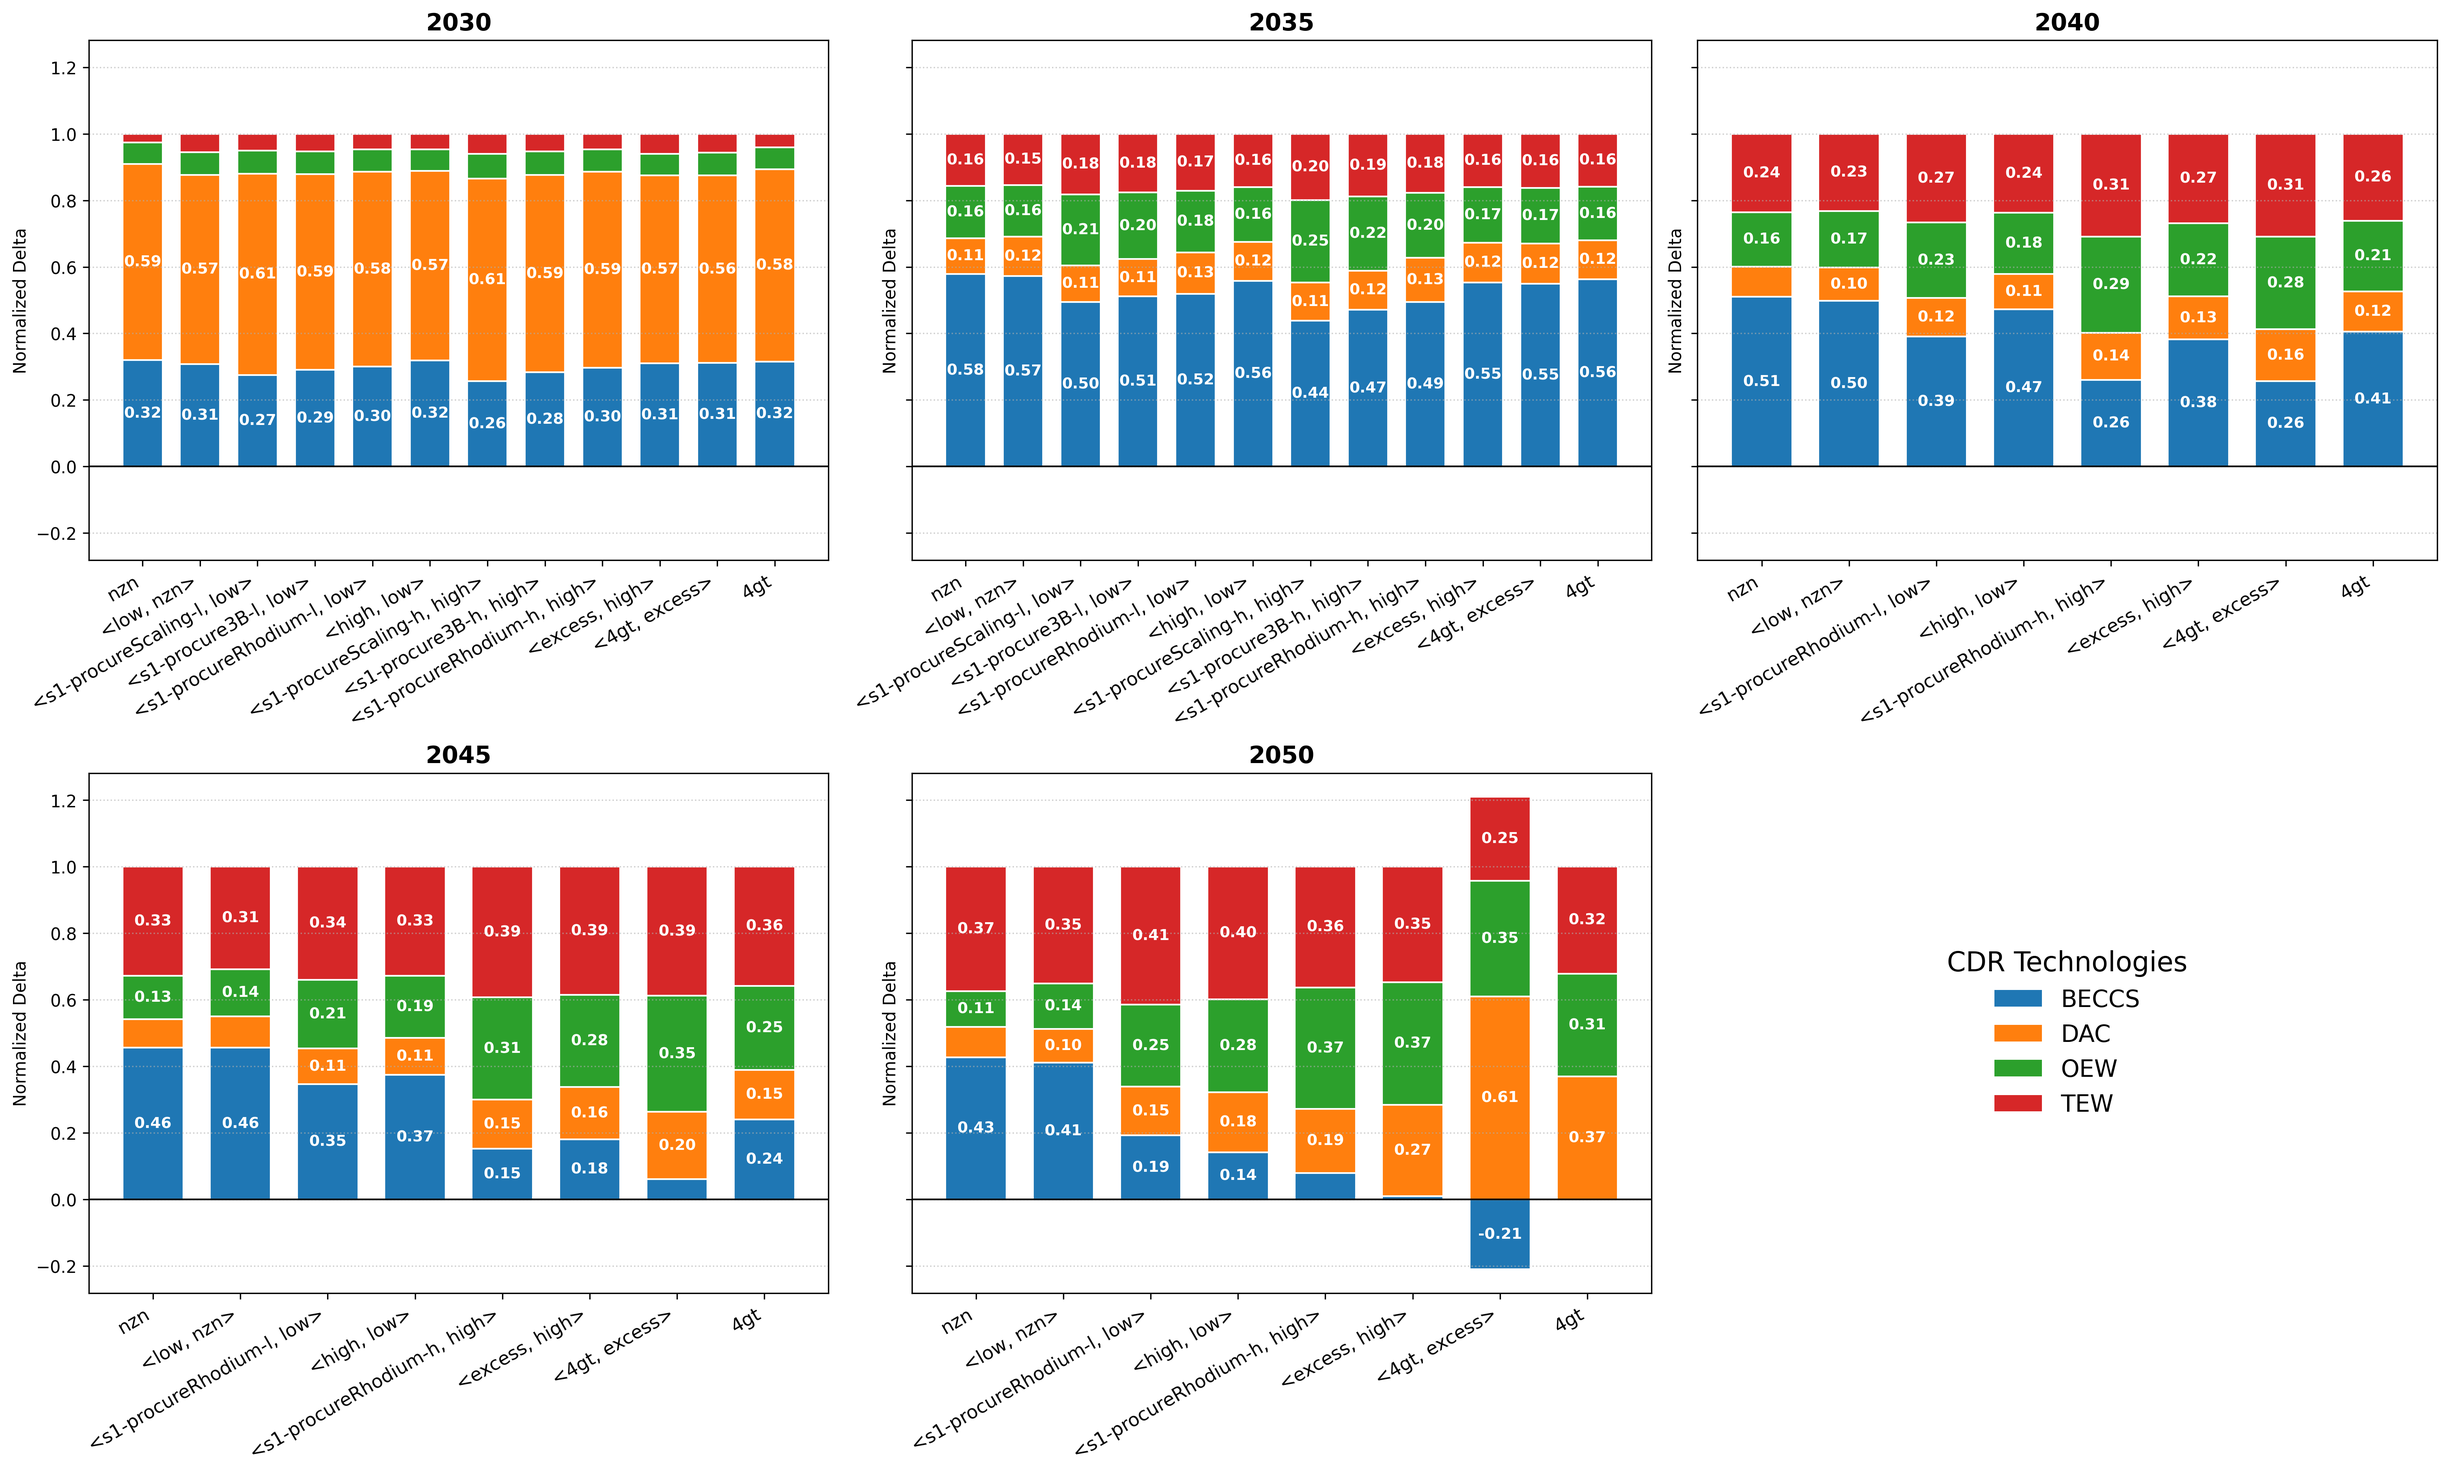
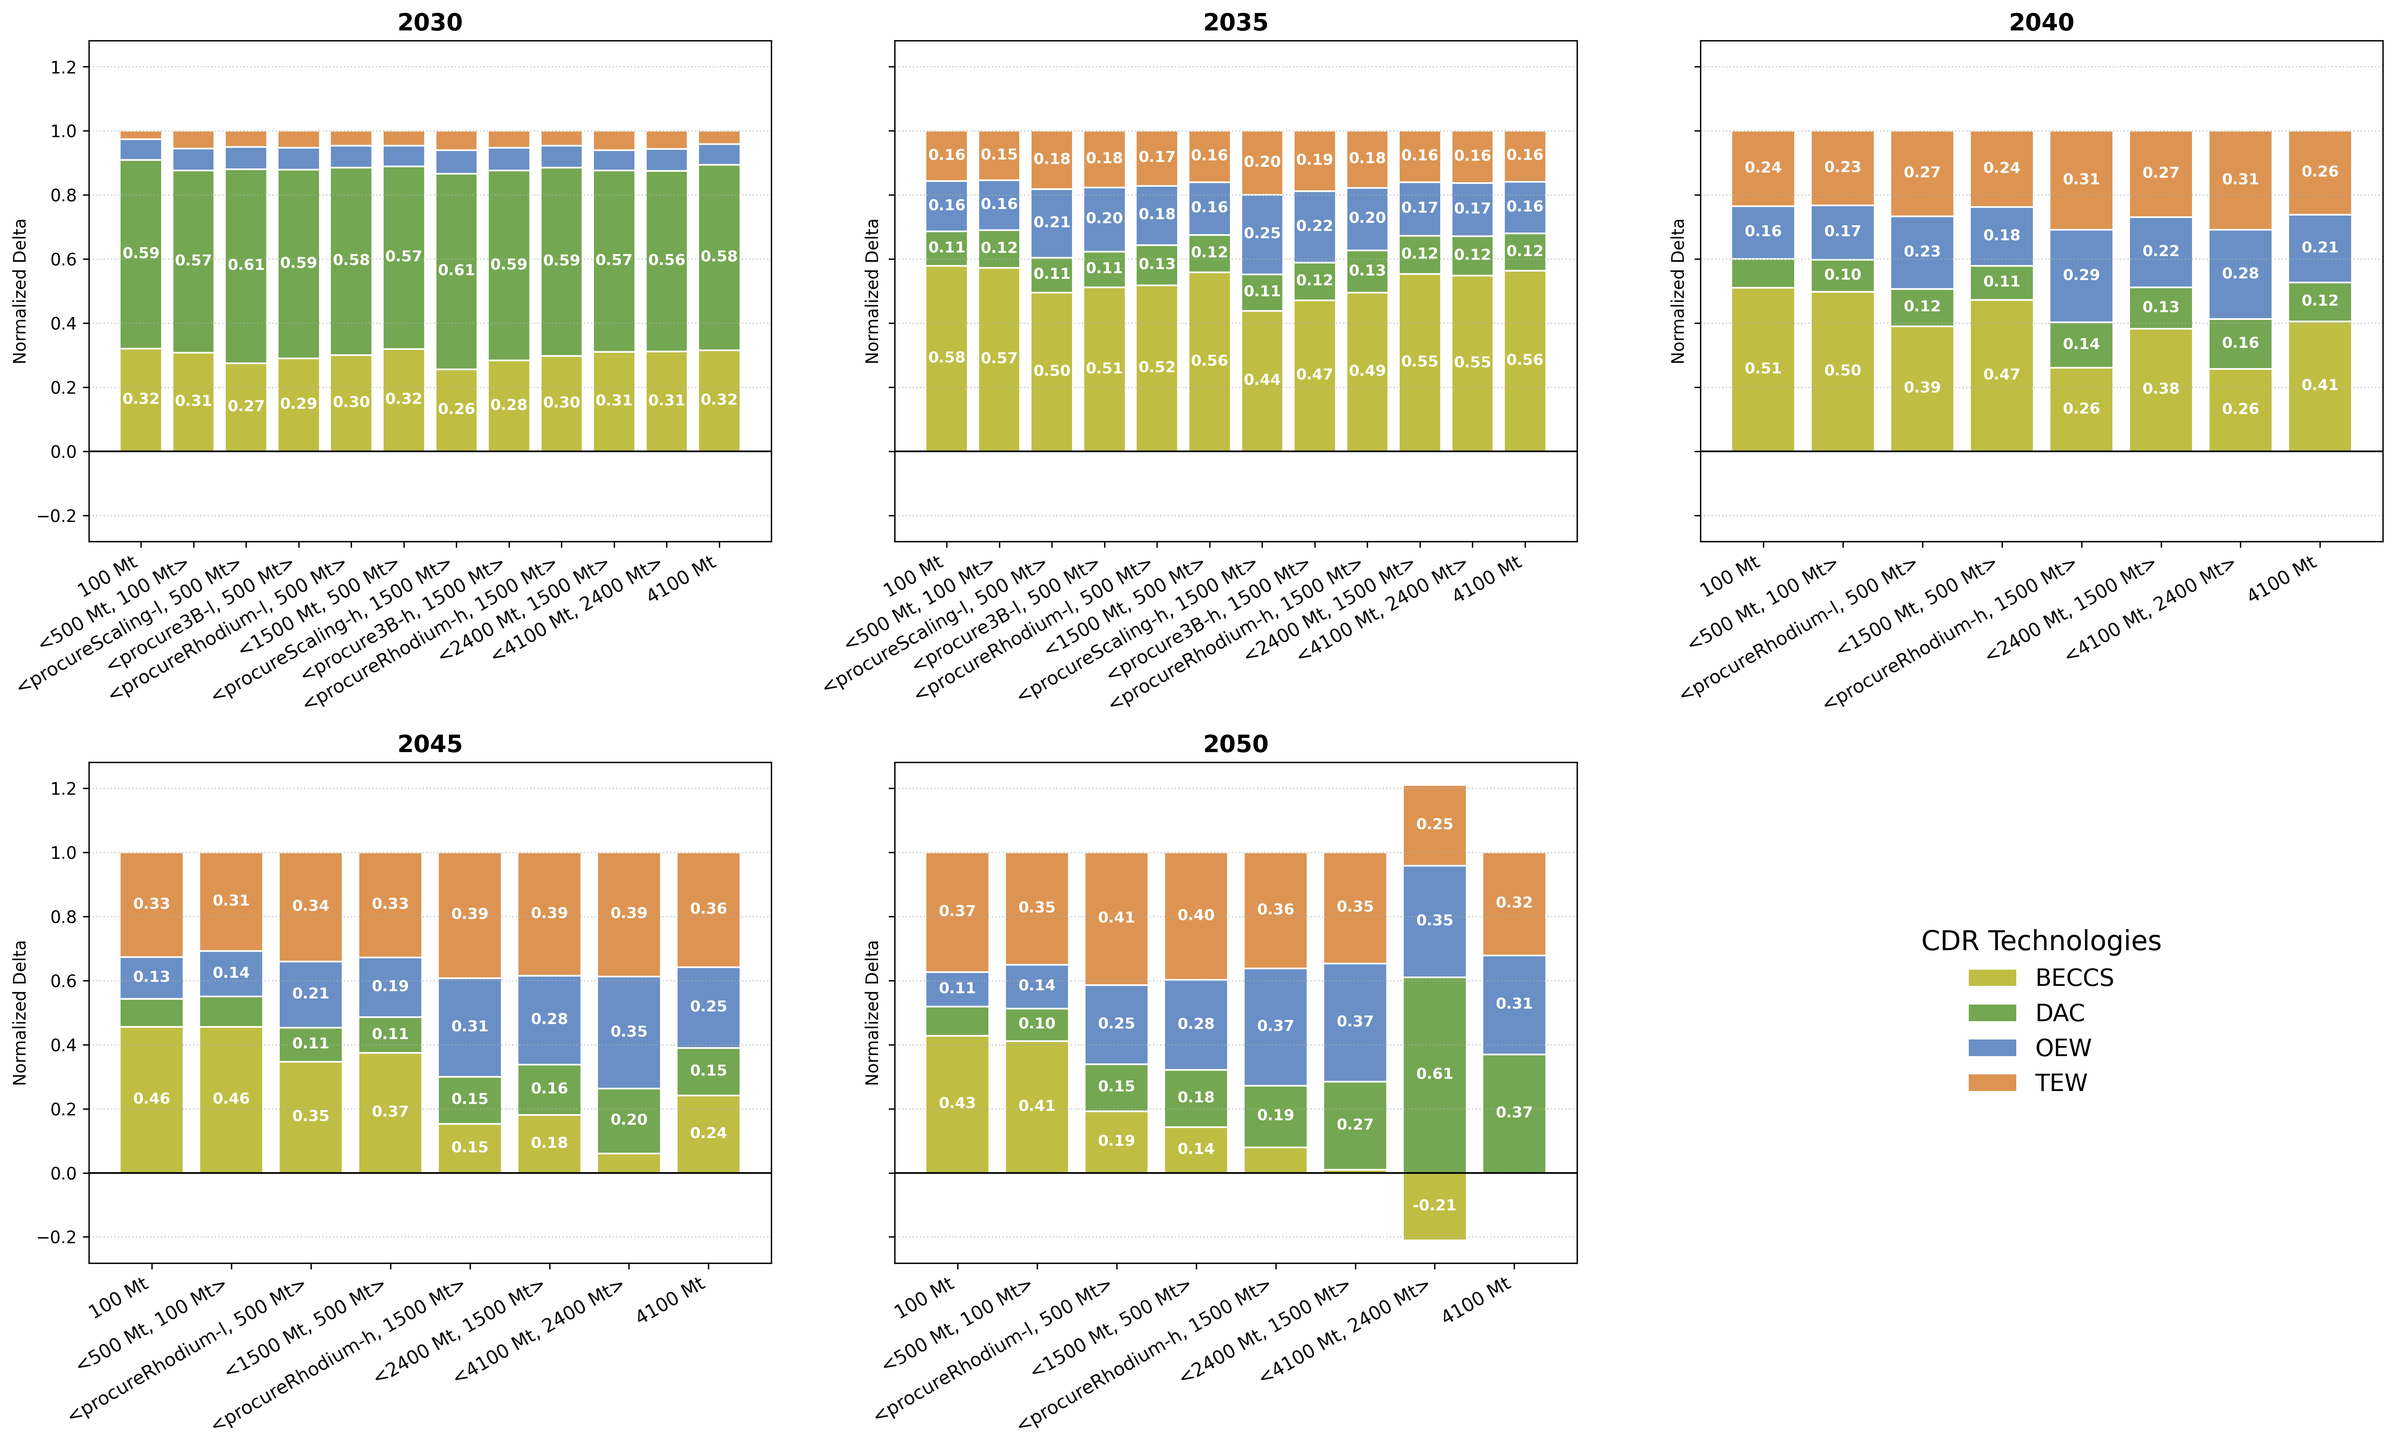
update figure 1a/2/5 plots

diff --git a/supplementary_figures.py b/supplementary_figures.py
@@ -16,8 +16,8 @@ def main(config_fname, reference_year):
     """
     config_fname = config_fname.replace("_", "/")
     os.makedirs("./data/data_analysis/images/" + config_fname + "/", exist_ok=True)
-    # many methods are commented out, but to run them it is feasible to uncomment and run
-    # marginal_supply()
+    # many methods are commented out, but to run them just uncomment and run
+    marginal_supply()
     # tech_neutrality()
     # compare_policy_costs("CDRIA-2035_high", "45Q-2040_high")
     # CAGR(config_fname, "2050")
@@ -28,7 +28,7 @@ def main(config_fname, reference_year):
     # C_tax(config_fname, reference_year)
     # C_prices(config_fname, reference_year)
     # CDR_subsidies(config_fname, "2035", "2040")
-    npv_breakdown()
+    # npv_breakdown()
 
 
 def npv_breakdown():
@@ -236,10 +236,10 @@ def marginal_supply():
     years = ['2030', '2035', '2040', '2045', '2050']
     all_comparisons = list(df_deltas['comparison'].unique())
     products = list(df_deltas['product'].unique())
-    colors = ['#1f77b4', '#ff7f0e', '#2ca02c', '#d62728']
+    colors = ["#BFBE43", "#74A751", "#698FC6", "#DD9452"]
 
     # set up the grid (3 rows, 2 columns)
-    fig, axes = plt.subplots(2, 3, figsize=(20, 12), sharex=False, sharey=True, layout="constrained")
+    fig, axes = plt.subplots(2, 3, figsize=(20, 12), sharex=False, sharey=True, layout="tight")
     axes_flat = axes.flatten()
 
     for i, year in enumerate(years):
@@ -247,8 +247,8 @@ def marginal_supply():
 
         # Filter valid comparisons for the specific year
         valid_comps = [c for c in all_comparisons if not df_deltas[df_deltas['comparison'] == c][year].isna().all()]
-        x_pos = np.arange(len(valid_comps))
 
+        x_pos = np.arange(len(valid_comps))
         starts_pos = np.zeros(len(valid_comps))
         starts_neg = np.zeros(len(valid_comps))
 
@@ -264,7 +264,7 @@ def marginal_supply():
 
             # Plot bars
             bars = ax.bar(x_pos, values, bottom=current_bottom, color=colors[p_idx],
-                          edgecolor='white', width=0.7, label=product if i == 0 else "")
+                          edgecolor='white', width=0.8, label=product if i == 0 else "")
 
             # Add Value Labels
             for j, bar in enumerate(bars):
@@ -282,6 +282,9 @@ def marginal_supply():
         ax.set_title(f"{year}", fontsize=14, fontweight='bold')
         ax.axhline(0, color='black', linewidth=1)
         ax.set_xticks(x_pos)
+        # Rename all the comparisons to make for pretty labeling
+        valid_comps = [i.replace("s1-", "").replace("nzn", "100 Mt").replace("low", "500 Mt").replace("high", "1500 Mt").
+                       replace("excess", "2400 Mt").replace("4gt", "4100 Mt") for i in valid_comps]
         ax.set_xticklabels(valid_comps, rotation=30, ha='right', fontsize=11)
         ax.set_ylabel("Normalized Delta")
         ax.grid(axis='y', linestyle=':', alpha=0.6)
